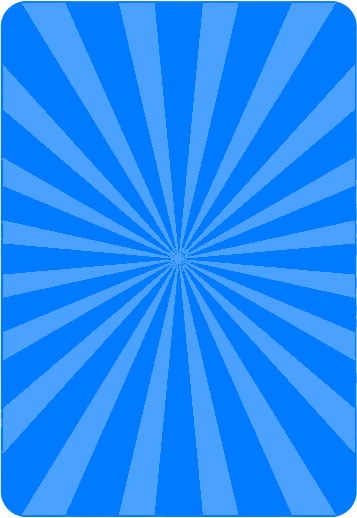
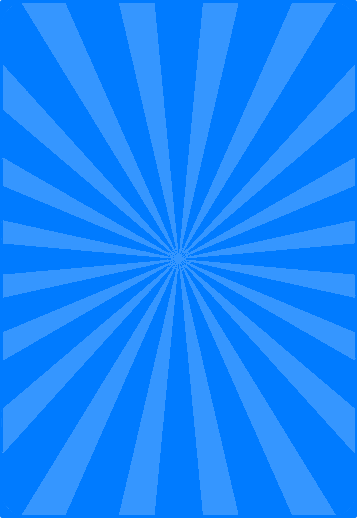
Updated more card UI

diff --git a/client/src/App.css b/client/src/App.css
@@ -61,39 +61,49 @@ body {
 }
 
 .estimate-card {
-  width: 120px;
-  height: 180px;
-  background-color: #007bff;
+  width: 125px;
+  height: 175px;
+  background-color: white;
   border-radius: 10px;
   margin: 10px;
   display: flex;
   flex-direction: column;
   justify-content: center;
   align-items: center;
-  color: white;
-  font-size: 44px;
-  font-weight: bold;
+  position: relative; /* Important for layering */
+  overflow: hidden;
   box-shadow: 0 4px 8px rgba(0, 0, 0, 0.3);
-  text-align: center;
-  /* animation: flip 0.6s ease;
-  transform-style: preserve-3d; */
 }
 
-/* .estimate-inner-card {
-  width: 100px;
-  height: 170px;
-  background-color: #ffffff;
-  border-radius: 10px;
-  margin: 10px;
+.estimate-inner-card {
+  position: relative;
+  width: 100%;
+  height: 100%;
   display: flex;
-  flex-direction: column;
   justify-content: center;
   align-items: center;
+  z-index: 3; /* Ensure text is on top */
+}
+
+.estimate-inner-card p {
+  position: relative;
+  z-index: 3; /* Ensure text is on top */
   color: white;
   font-size: 44px;
   font-weight: bold;
-  text-align: center;
-} */
+}
+
+.estimate-inner-card .card-image {
+  position: absolute;
+  top: 50%;
+  left: 50%;
+  width: 87%; /* Adjust size as needed */
+  height: 89%; /* Adjust size as needed */
+  object-fit: cover; /* Ensure image maintains its aspect ratio */
+  border-radius: 0; /* Match the card’s border radius */
+  transform: translate(-50%, -50%); /* Center the image */
+  z-index: 1; /* Keep the image behind other content */
+}
 
 /* .estimate-innermost-card {
   width: 97px;
@@ -195,38 +205,38 @@ body {
   margin-bottom: 30px;
 }
 
+.card-deck .card-image {
+  opacity: 0.8; /* 50% transparent */
+}
+
 .card {
   width: 80px;
   height: 120px;
   background-color: #ffffff;
   border-radius: 10px;
   margin: 10px;
-
-  /* Center the content */
   display: flex;
   justify-content: center;
   align-items: center;
-
   color: rgb(83, 83, 83);
   font-size: 24px;
   font-weight: bold;
   cursor: pointer;
   box-shadow: 0 4px 8px rgba(0, 0, 0, 0.1);
   transition: transform 0.2s ease-in-out;
+  position: relative; /* Important for layering */
 }
-
 .card-image {
   position: absolute;
   top: 50%;
   left: 50%;
-  width: 90%; /* Adjust size as needed */
-  height: 92%; /* Adjust size as needed */
+  width: 100%; /* Make sure the image covers the entire card */
+  height: 100%;
   object-fit: cover; /* Ensures the image maintains its aspect ratio */
-  border-radius: 10px; /* Ensure the image follows the card's border radius */
-  z-index: 1; /* Keeps the image behind other content in the card */
+  border-radius: 10px;
+  z-index: 1; /* Keep the image behind the text */
   transform: translate(-50%, -50%); /* Centers the image */
 }
-
 .card-text {
   position: relative;
   z-index: 2; /* Ensures the text is above the image */
@@ -404,6 +414,18 @@ body {
   justify-content: center;
   align-items: center;
   text-align: center;
+}
+
+.session-card .card-image {
+  position: absolute;
+  top: 50%;
+  left: 50%;
+  width: 87%; /* Adjust size as needed */
+  height: 89%; /* Adjust size as needed */
+  object-fit: cover; /* Ensure image maintains its aspect ratio */
+  border-radius: 0; /* Match the card’s border radius */
+  transform: translate(-50%, -50%); /* Center the image */
+  z-index: 1; /* Keep the image behind other content */
 }
 
 .session-card h2 {

diff --git a/client/src/App.js b/client/src/App.js
@@ -6,6 +6,13 @@ import { faUser, faShareAlt } from "@fortawesome/free-solid-svg-icons";
 import { Helmet } from "react-helmet";
 import { ToastContainer, toast } from "react-toastify";
 import "react-toastify/dist/ReactToastify.css";
+import oneImg from "./assets/images/one.png";
+import twoImg from "./assets/images/two.png";
+import threeImg from "./assets/images/three.png";
+import fiveImg from "./assets/images/five.png";
+import eightImg from "./assets/images/eight.png";
+import thirteenImg from "./assets/images/thirteen.png";
+import twentyoneImg from "./assets/images/twentyone.png";
 
 // const socket = io(
 //   "https://planning-poker-pointing-9f9b8406bb5e.herokuapp.com/"
@@ -27,6 +34,15 @@ function App() {
   const [flippedCards, setFlippedCards] = useState([]);
   const [spectateMode, setSpectateMode] = useState(false);
   const [dealAnimation, setDealAnimation] = useState(false);
+  const cardImages = {
+    1: oneImg,
+    2: twoImg,
+    3: threeImg,
+    5: fiveImg,
+    8: eightImg,
+    13: thirteenImg,
+    21: twentyoneImg,
+  };
 
   useEffect(() => {
     setDealAnimation(true);
@@ -378,18 +394,21 @@ function App() {
               {users.map((user, index) => (
                 <div key={index} className="estimate-card">
                   <div key={index} className="estimate-inner-card">
-                    <div key={index} className="estimate-innermost-card">
-                      <p>
-                        {revealed
-                          ? estimates.find((est) => est.userName === user.name)
-                              ?.estimate || "?"
-                          : user.spectate
-                          ? "👁"
-                          : hasUserVoted(user.name)
-                          ? "✔"
-                          : "?"}
-                      </p>
-                    </div>
+                    <img
+                      src={require("./assets/images/card_back.png")}
+                      alt="Card Background"
+                      className="card-image"
+                    />
+                    <p>
+                      {revealed
+                        ? estimates.find((est) => est.userName === user.name)
+                            ?.estimate || "?"
+                        : user.spectate
+                        ? "👁"
+                        : hasUserVoted(user.name)
+                        ? "✔"
+                        : "?"}
+                    </p>
                   </div>
                 </div>
               ))}
@@ -401,7 +420,12 @@ function App() {
                   className={`card ${selectedCard === card ? "selected" : ""}`}
                   onClick={() => sendEstimate(card)}
                 >
-                  {card}
+                  <img
+                    src={cardImages[card]}
+                    alt={`Card for ${card}`}
+                    className="card-image"
+                  />
+                  <p className="card-text">{card}</p>
                 </div>
               ))}
             </div>
